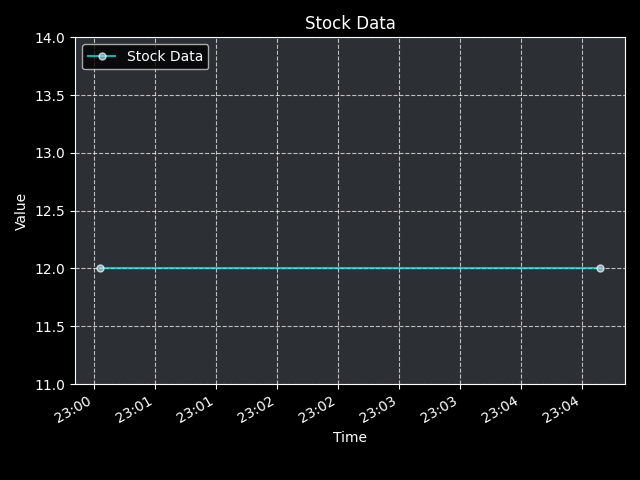
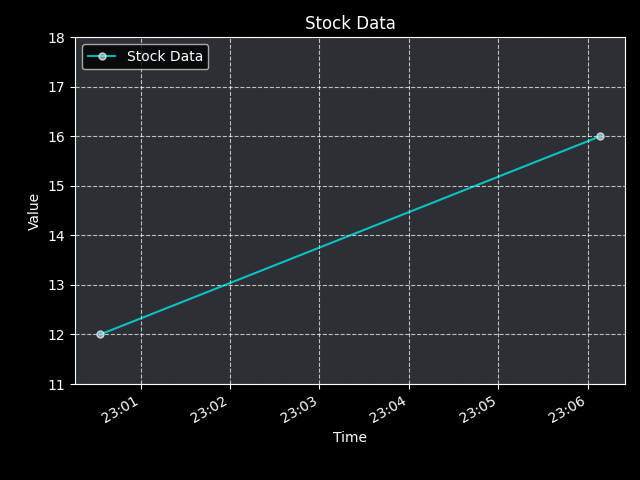
update market

diff --git a/commands/economy/market.py b/commands/economy/market.py
@@ -90,7 +90,7 @@ class Market(commands.Cog):
               if current_stocks <= 0:
                   current_rate = 0
               else:
-                  current_rate = math.ceil((total_economy / current_stocks) * 1 / 2)
+                  current_rate = round((total_economy / current_stocks) * 1 / 2 , 2)
               
               if guild_id not in self.stock_data:
                   self.stock_data[guild_id] = { 'data' : [current_rate] , 'time' : [datetime.now().timestamp()] }
@@ -152,7 +152,7 @@ class Market(commands.Cog):
         f"**__Market Details__**\n\nCurrent Value  : {coin(ctx.guild.id)} {current_rate}\n\n**__Market Stats__**"
     )
 
-    self.stock_data[ctx.guild.id]['data'].append((current_rate))
+    self.stock_data[ctx.guild.id]['data'].append(round((total_economy / current_stocks) * 1 / 2 , 2))
     self.stock_data[ctx.guild.id]['time'].append(datetime.now().timestamp())
 
     plt.style.use('dark_background')
